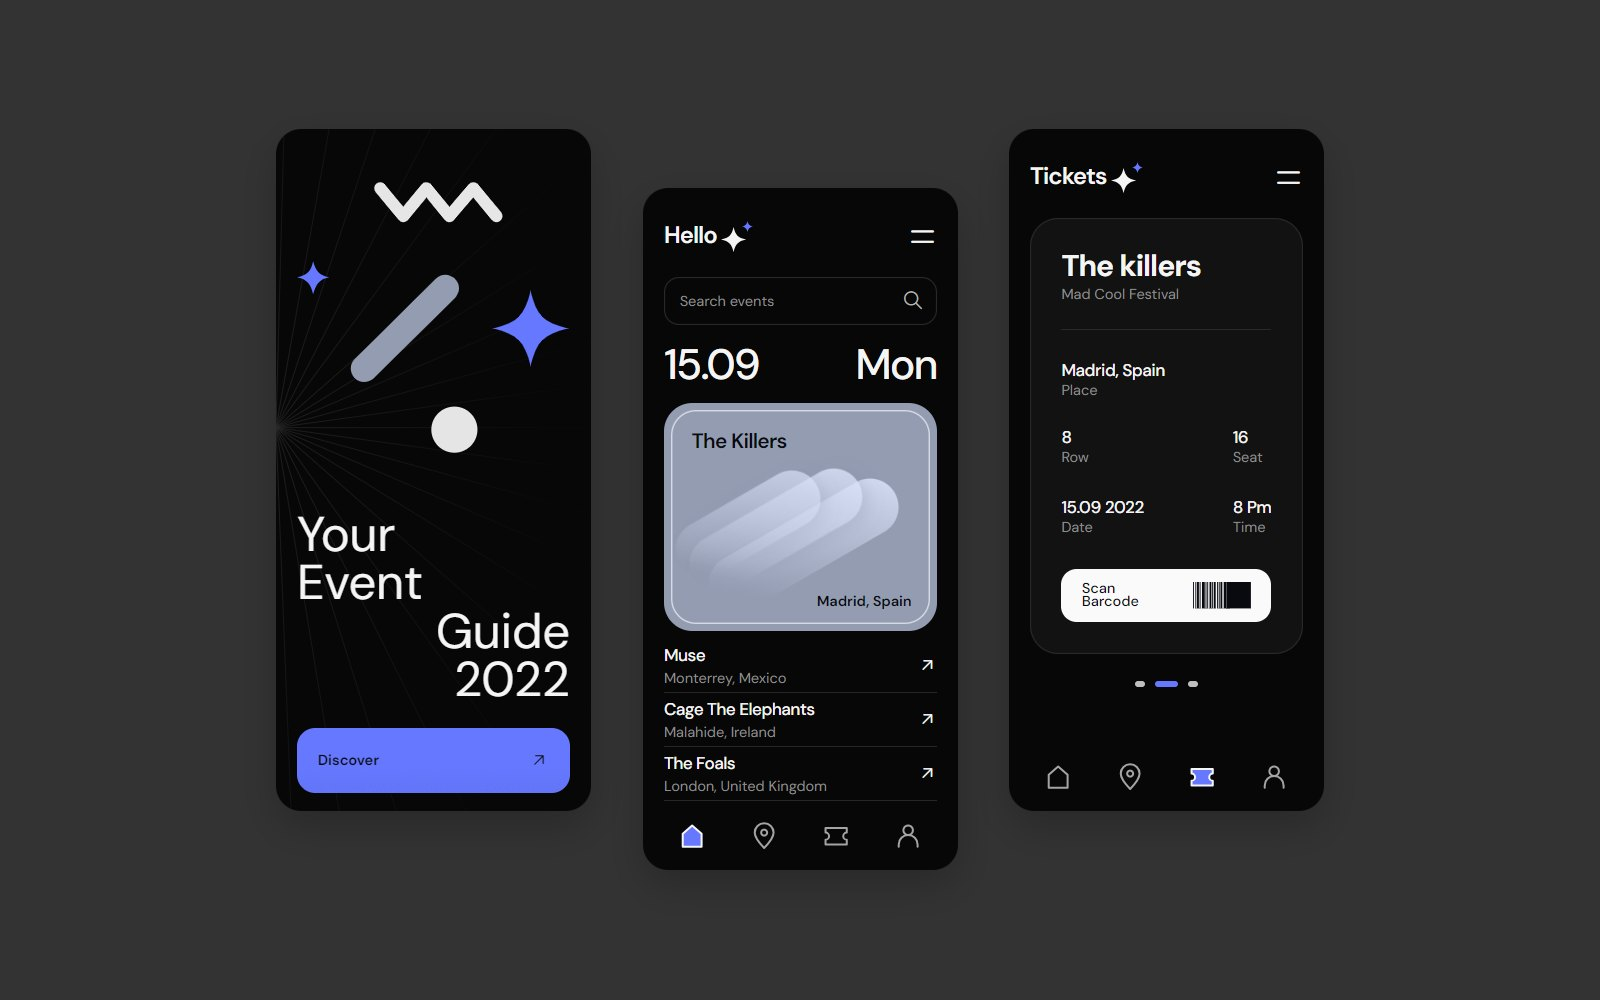
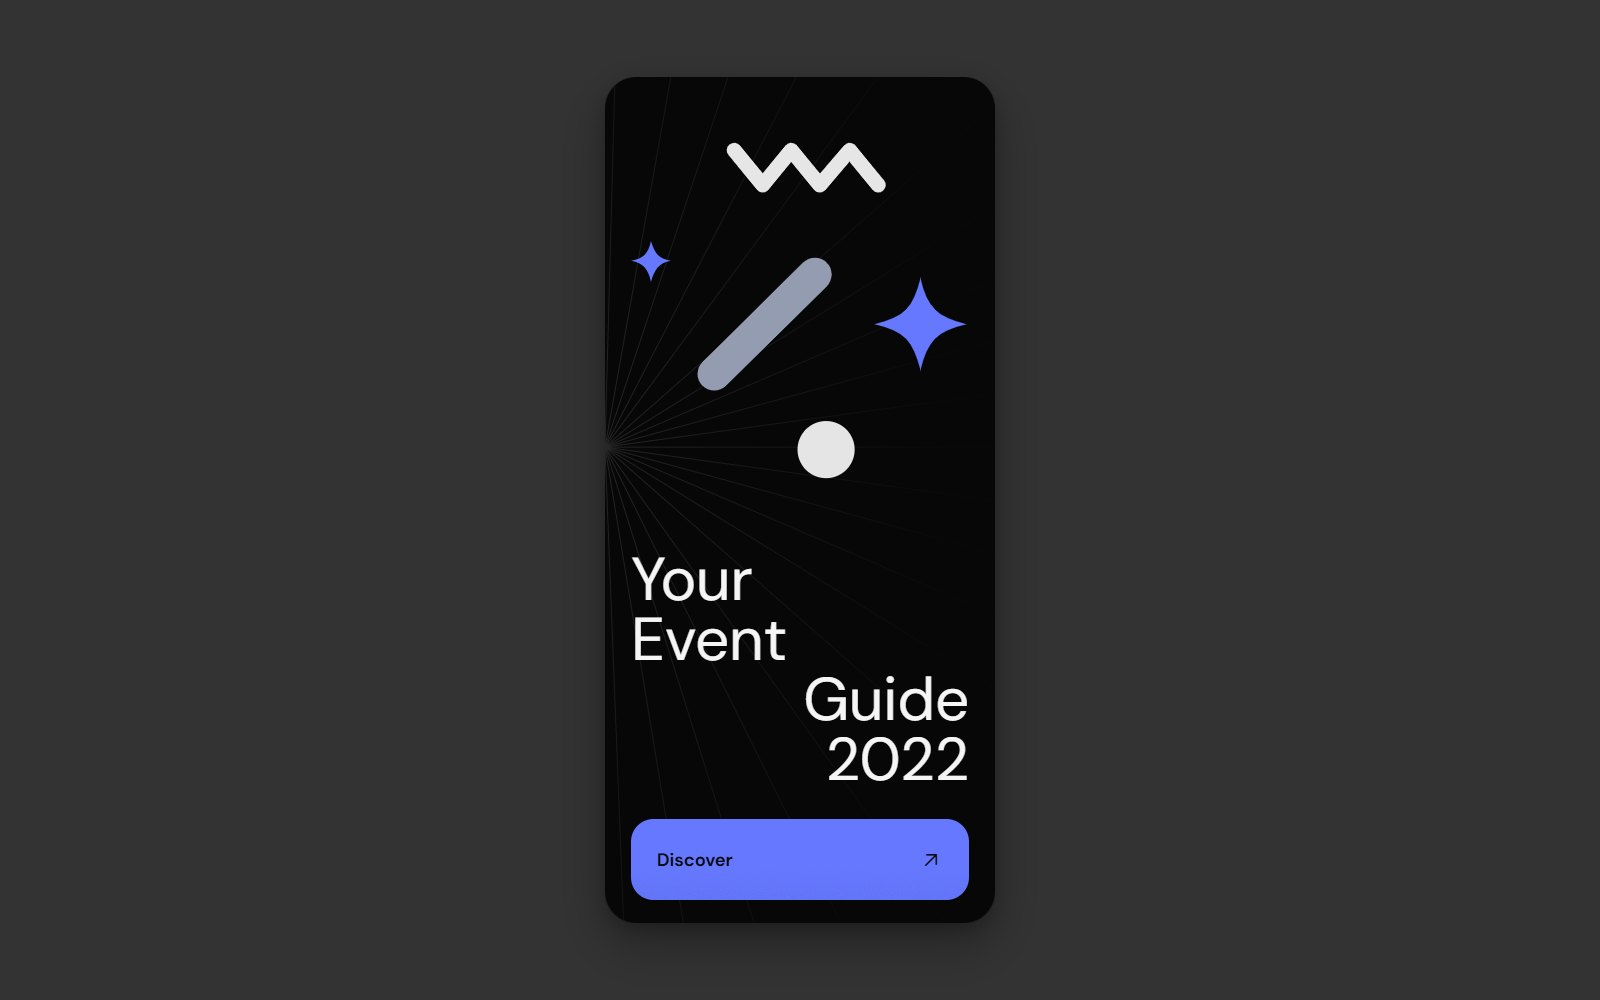
fix(event-guide): 统一单页布局以避免宽屏多屏展示

diff --git a/ui/event-guide/styles.css b/ui/event-guide/styles.css
@@ -71,13 +71,11 @@ h1, h2, h3, p { margin: 0; }
 .svg-library { position: absolute; width: 0; height: 0; overflow: hidden; }
 
 .presentation {
-  width: min(calc(100vw - 112px), calc((100svh - 48px) * 1048 / 741), 1048px);
-  display: grid;
-  grid-template-columns: repeat(3, minmax(0, 1fr));
-  gap: 4.96%;
+  width: min(calc(100vw - 32px), calc((100svh - 32px) * 314 / 681), 390px);
+  display: block;
 }
-.stage { min-width: 0; display: flex; align-items: flex-start; }
-.stage--middle { padding-top: 18.79%; }
+.stage { min-width: 0; display: block; }
+.stage--middle, .stage--tickets { display: none; }
 .canvas {
   position: relative;
   width: 100%;
@@ -226,9 +224,7 @@ h1, h2, h3, p { margin: 0; }
 @keyframes poster-arrive { from { opacity: .65; transform: translateY(2.5cqw); } to { opacity: 1; transform: translateY(0); } }
 
 @media (max-width: 1050px), (max-height: 720px) {
-  .presentation { width: min(calc(100vw - 32px), calc((100svh - 32px) * 314 / 681), 390px); display: block; }
-  .stage { display: block; }
-  .stage--middle, .stage--tickets { display: none; }
+  .presentation { width: min(calc(100vw - 32px), calc((100svh - 32px) * 314 / 681), 390px); }
 }
 @media (prefers-reduced-motion: reduce) {
   *, *::before, *::after { animation: none !important; transition: none !important; }
